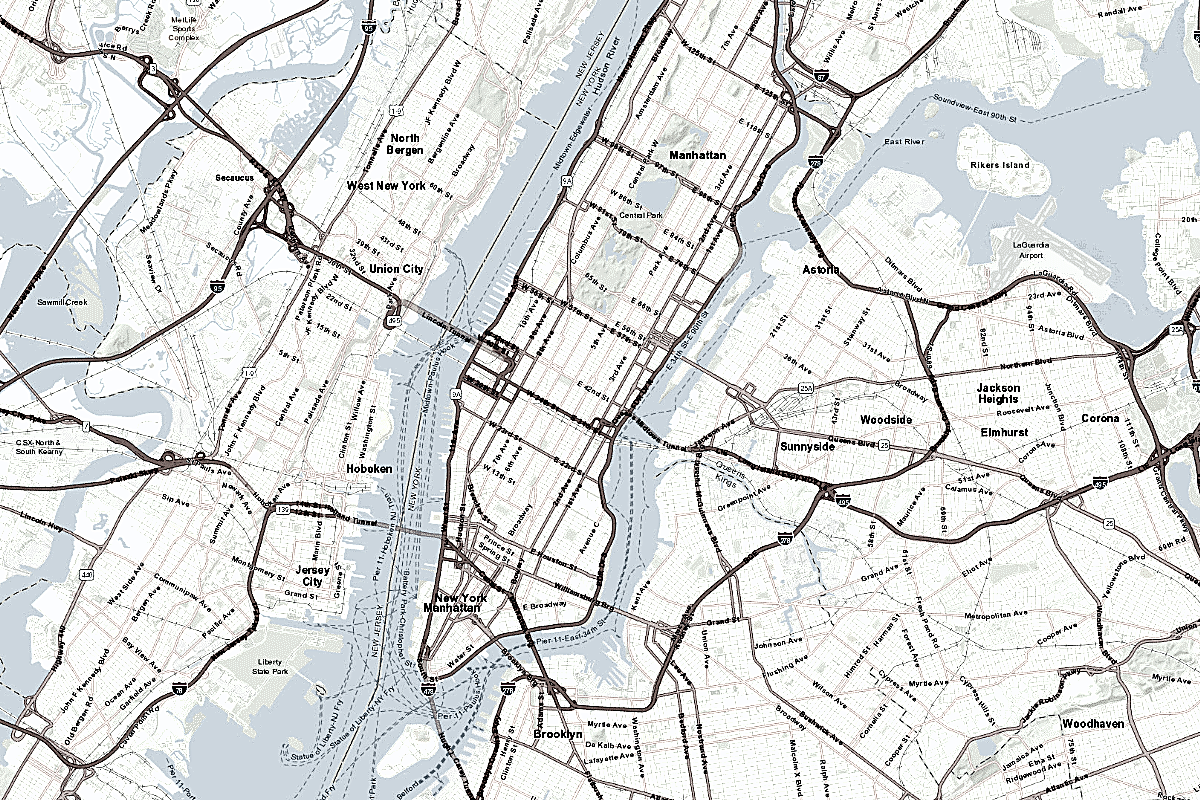
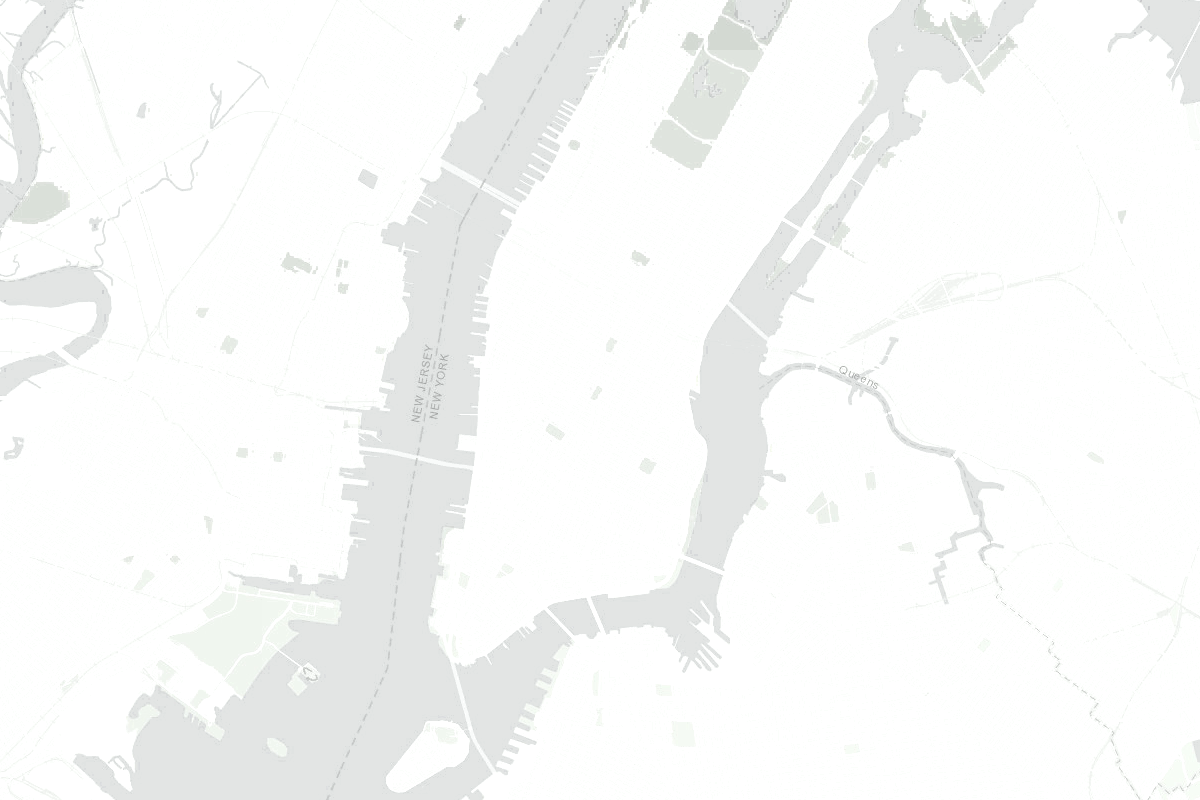
feat(guias): ESRI Light Gray basemaps for 30s city maps
Replace dense OSM-like PNGs with stitched Canvas Light Gray tiles for
all seven map cities. Recalibrate Paris region/hotel pins to the new
geographic frame and tune Modern light CSS wash for the cleaner base.

diff --git a/src/data/guideThirtySeconds.js b/src/data/guideThirtySeconds.js
@@ -27,7 +27,7 @@ export const GUIDE_THIRTY_SECONDS = {
         blurb: 'Ícones de Paris',
         color: '#5B8DEF',
         image: '/images/destinations/paris/curated-region-0.jpg',
-        pin: { top: '58%', left: '22%' },
+        pin: { top: '60.6%', left: '30.3%' },
         hotel: 'Hotéis boutique perto do Champ de Mars'
       },
       {
@@ -36,7 +36,7 @@ export const GUIDE_THIRTY_SECONDS = {
         blurb: 'Cultura e história',
         color: '#F47A20',
         image: '/images/destinations/paris/curated-region-1.jpg',
-        pin: { top: '48%', left: '48%' },
+        pin: { top: '58.2%', left: '51.3%' },
         hotel: 'Hotéis clássicos em Saint-Germain e Opéra'
       },
       {
@@ -45,7 +45,7 @@ export const GUIDE_THIRTY_SECONDS = {
         blurb: 'Charme e vida local',
         color: '#8B7CF6',
         image: '/images/destinations/paris/curated-region-2.jpg',
-        pin: { top: '42%', left: '62%' },
+        pin: { top: '63.7%', left: '64.9%' },
         hotel: 'Apartamentos charmosos no 3º e 4º'
       },
       {
@@ -54,7 +54,7 @@ export const GUIDE_THIRTY_SECONDS = {
         blurb: 'Arte e vista incrível',
         color: '#96AB21',
         image: '/images/destinations/paris/curated-region-3.jpg',
-        pin: { top: '22%', left: '55%' },
+        pin: { top: '29.3%', left: '53.9%' },
         hotel: 'Pousadas com vista no Sacré-Cœur'
       }
     ],
@@ -68,7 +68,7 @@ export const GUIDE_THIRTY_SECONDS = {
         image: '/images/destinations/paris/curated-hotel-0.jpg',
         imageIllustrative: true,
         color: '#5B8DEF',
-        pin: { top: '60%', left: '20%' }
+        pin: { top: '62.7%', left: '33.5%' }
       },
       {
         id: 'paris-hotel-louvre',
@@ -79,7 +79,7 @@ export const GUIDE_THIRTY_SECONDS = {
         image: '/images/destinations/paris/curated-hotel-1.jpg',
         imageIllustrative: true,
         color: '#F47A20',
-        pin: { top: '50%', left: '46%' }
+        pin: { top: '54.9%', left: '47.6%' }
       },
       {
         id: 'paris-hotel-marais',
@@ -90,7 +90,7 @@ export const GUIDE_THIRTY_SECONDS = {
         image: '/images/destinations/paris/curated-hotel-2.jpg',
         imageIllustrative: true,
         color: '#8B7CF6',
-        pin: { top: '44%', left: '64%' }
+        pin: { top: '64.4%', left: '63.1%' }
       },
       {
         id: 'paris-hotel-montmartre',
@@ -101,7 +101,7 @@ export const GUIDE_THIRTY_SECONDS = {
         image: '/images/destinations/paris/curated-hotel-3.jpg',
         imageIllustrative: true,
         color: '#96AB21',
-        pin: { top: '20%', left: '57%' }
+        pin: { top: '31.7%', left: '51%' }
       }
     ]
   },

diff --git a/src/app/globals.css b/src/app/globals.css
@@ -241,8 +241,8 @@ html {
 }
 
 .guide-city-map__img {
-  /* Light Positron-like assets + zoom; contrast keeps tile typography readable. */
-  filter: contrast(1.14) brightness(1.02);
+  /* ESRI Light Gray / Positron-like assets + zoom; light contrast for street labels. */
+  filter: contrast(1.08) brightness(1.03);
   transform: scale(var(--guide-map-zoom));
   transform-origin: center;
 }
@@ -250,10 +250,10 @@ html {
 .guide-city-map__wash {
   pointer-events: none;
   background:
-    linear-gradient(180deg, rgba(255, 255, 255, 0.18) 0%, transparent 32%, rgba(15, 23, 42, 0.06) 100%),
-    linear-gradient(120deg, rgba(148, 163, 184, 0.08), transparent 50%);
+    linear-gradient(180deg, rgba(255, 255, 255, 0.22) 0%, transparent 34%, rgba(15, 23, 42, 0.05) 100%),
+    linear-gradient(120deg, rgba(148, 163, 184, 0.06), transparent 52%);
   mix-blend-mode: normal;
-  opacity: 0.42;
+  opacity: 0.36;
 }
 
 .guide-city-map__wash::after {
@@ -302,15 +302,15 @@ html {
   background: linear-gradient(160deg, #eef2f6 0%, #f7f9fb 100%);
 }
 .guide-city-map[data-map-theme='modern-light'] .guide-city-map__img {
-  filter: contrast(1.14) brightness(1.02);
+  filter: contrast(1.08) brightness(1.03);
   transform: scale(var(--guide-map-zoom));
 }
 .guide-city-map[data-map-theme='modern-light'] .guide-city-map__wash {
   background:
-    linear-gradient(180deg, rgba(255, 255, 255, 0.18) 0%, transparent 32%, rgba(15, 23, 42, 0.06) 100%),
-    linear-gradient(120deg, rgba(148, 163, 184, 0.08), transparent 50%);
+    linear-gradient(180deg, rgba(255, 255, 255, 0.22) 0%, transparent 34%, rgba(15, 23, 42, 0.05) 100%),
+    linear-gradient(120deg, rgba(148, 163, 184, 0.06), transparent 52%);
   mix-blend-mode: normal;
-  opacity: 0.42;
+  opacity: 0.36;
 }
 .guide-city-map[data-map-theme='modern-light'] .guide-city-map__grid {
   opacity: 0.08;

diff --git a/src/app/mapa-opcoes/page.js b/src/app/mapa-opcoes/page.js
@@ -45,12 +45,12 @@ const ORIG_PINS = [
   }
 ];
 
-/** Geographic % for stitched free-tile basemaps (same Paris bbox). */
+/** Geographic % for stitched ESRI Light Gray basemap (Paris z13 frame). */
 const GEO_PINS = [
-  { ...ORIG_PINS[0], pin: { top: '68.1%', left: '26.5%' } },
-  { ...ORIG_PINS[1], pin: { top: '64.7%', left: '59.7%' } },
-  { ...ORIG_PINS[2], pin: { top: '69.5%', left: '78.6%' } },
-  { ...ORIG_PINS[3], pin: { top: '23.9%', left: '63.9%' } }
+  { ...ORIG_PINS[0], pin: { top: '60.6%', left: '30.3%' } },
+  { ...ORIG_PINS[1], pin: { top: '58.2%', left: '51.3%' } },
+  { ...ORIG_PINS[2], pin: { top: '63.7%', left: '64.9%' } },
+  { ...ORIG_PINS[3], pin: { top: '29.3%', left: '53.9%' } }
 ];
 
 export const MAP_STYLE_OPTIONS = [
@@ -58,9 +58,9 @@ export const MAP_STYLE_OPTIONS = [
     id: 'modern-light',
     name: 'Modern light (produção)',
     short: 'modern-light',
-    description: 'Base clara Positron-like + wash leve — produção em todos os guias.',
+    description: 'ESRI Light Gray / Positron-like + wash leve — produção em todos os guias.',
     mapSrc: '/images/maps/paris.png',
-    pins: ORIG_PINS,
+    pins: GEO_PINS,
     productionLike: true,
     cssTheme: 'modern-light'
   },
